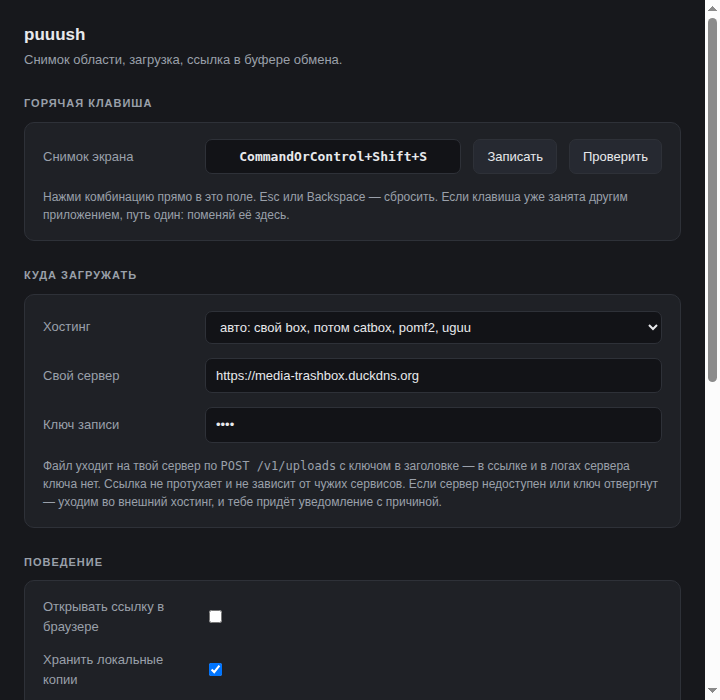
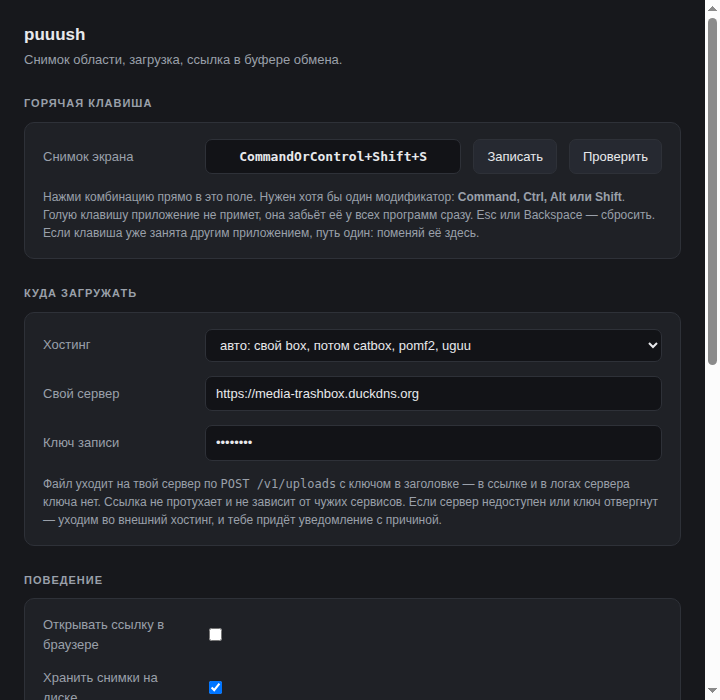
docs: свежие снимки интерфейса, включая поломку настроек
Скриншоты настроек и оверлея были сделаны до последних правок: узкого
поля хоткея, баннера о поломке настроек и переименованной опции снимков.
Пересняты все три состояния.

diff --git a/README.md b/README.md
@@ -21,6 +21,11 @@ macOS, Windows, Linux.
 
 ![настройки](docs/ui-settings.png)
 
+Если файл настроек не прочитался, окно объясняет это прямо, а не молча
+возвращает значения по умолчанию.
+
+![настройки при поломке](docs/ui-settings-broken.png)
+
 ## Как это работает
 
 ```
